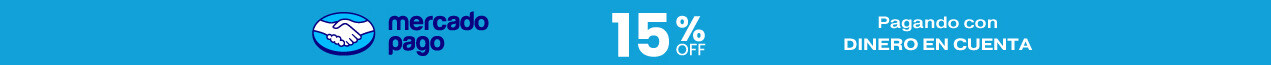
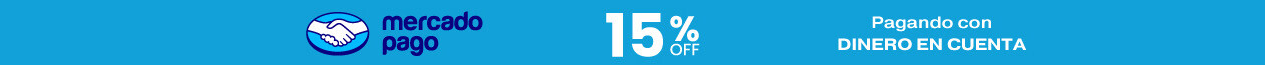
responsive a mp, agrege construccion.

diff --git a/paginas/construccion.html b/paginas/construccion.html
@@ -1,0 +1,74 @@
+<!doctype html>
+<html lang="es">
+  <head>
+    <meta charset="utf-8">
+    <meta name="viewport" content="width=device-width, initial-scale=1">
+    <title>Altimax</title>
+    <link rel="preconnect" href="https://fonts.googleapis.com">
+    <link rel="stylesheet" href="/style.css">
+    <link rel="preconnect" href="https://fonts.gstatic.com" crossorigin>
+    <script src="https://cdn.jsdelivr.net/npm/bootstrap@5.3.5/dist/js/bootstrap.bundle.min.js" integrity="sha384-k6d4wzSIapyDyv1kpU366/PK5hCdSbCRGRCMv+eplOQJWyd1fbcAu9OCUj5zNLiq" crossorigin="anonymous"></script>
+    <script src="https://cdn.jsdelivr.net/npm/bootstrap@5.3.5/dist/js/bootstrap.bundle.min.js" integrity="sha384-k6d4wzSIapyDyv1kpU366/PK5hCdSbCRGRCMv+eplOQJWyd1fbcAu9OCUj5zNLiq" crossorigin="anonymous"></script>
+    <link href="https://fonts.googleapis.com/css2?family=Josefin+Sans:ital,wght@0,100..700;1,100..700&family=Quicksand:wght@300..700&family=Yrsa:ital,wght@0,300..700;1,300..700&display=swap" rel="stylesheet">
+    <link href="https://cdn.jsdelivr.net/npm/bootstrap@5.3.5/dist/css/bootstrap.min.css" rel="stylesheet" integrity="sha384-SgOJa3DmI69IUzQ2PVdRZhwQ+dy64/BUtbMJw1MZ8t5HZApcHrRKUc4W0kG879m7" crossorigin="anonymous">
+  </head>
+  <body>
+<header>
+    <h6 class="cabeza">📨Hasta 6 cuotas sin interes y envios a todo el pais!!!📨</h6>
+</header>
+
+
+<nav class="navbar navbar-expand-lg navbar-light bg-light">
+    <a class="navbar-brand" href="/index.html"><h1 class="tittle">─────Altimax───── </h1></a>
+    <button class="navbar-toggler" type="button" data-toggle="collapse" data-target="#navbarNav" aria-controls="navbarNav" aria-expanded="false" aria-label="Toggle navigation">
+      <span class="navbar-toggler-icon"></span>
+    </button>
+    <div class="collapse navbar-collapse" id="navbarNav">
+      <ul class="navbar-nav">
+        <li class="nav-item active">
+          <a class="nav-link" href="/paginas/mujeres.html">Mujeres</span></a>
+        </li>
+        <li class="nav-item">
+          <a class="nav-link" href="/paginas/hombres.html">Hombres</a>
+        </li>
+        <li class="nav-item">
+          <a class="nav-link" href="/paginas/niños.html">Niños</a>
+        </li>
+        <li class="nav-item">
+            <a class="nav-link" href="/paginas/destacados.html">Destacados</a>
+          </li>
+      </ul>
+    </div>
+  </nav>
+<nav>
+
+<h1 class="construccion">🚧esta pagina se encuentra en constrccuion🚧</h1>
+
+  <footer>
+    <div class="footer-contenido">
+        <div class="footer-col">
+          <h3>Contacto</h3>
+          <p>Email: ejemplo@gmail.com</p>
+          <p>Tel: +123 456 789</p>
+        </div>
+        <div class="footer-col">
+          <h3>Enlaces</h3>
+          <ul>
+            <li><a href="/index.html">Inicio</a></li>
+            <li><a href="">Servicios</a></li>
+            <li><a href="">Sobre Nosotros</a></li>
+          </ul>
+        </div>
+        <div class="footer-col">
+          <h3>Síguenos</h3>
+          <div class="redes-sociales">
+            <a href="">🌐 Facebook</a><br>
+            <a href="">📸 Instagram</a><br>
+            <a href="">🐦 Twitter</a>
+          </div>
+        </div>
+      </div>
+  </footer>
+
+  </body>
+</html>

diff --git a/index.html b/index.html
@@ -19,7 +19,7 @@
 
 
 <nav class="navbar navbar-expand-lg navbar-light bg-light">
-    <a class="navbar-brand" href="#"><h1 class="tittle">─────Altimax───── </h1></a>
+    <a class="navbar-brand" href="/index.html"><h1 class="tittle">─────Altimax───── </h1></a>
     <button class="navbar-toggler" type="button" data-toggle="collapse" data-target="#navbarNav" aria-controls="navbarNav" aria-expanded="false" aria-label="Toggle navigation">
       <span class="navbar-toggler-icon"></span>
     </button>
@@ -32,16 +32,16 @@
           <a class="nav-link" href="/paginas/hombres.html">Hombres</a>
         </li>
         <li class="nav-item">
-          <a class="nav-link" href="/paginas/niños.html">Niños</a>
+          <a class="nav-link" href="/paginas/construccion.html">Niños</a>
         </li>
         <li class="nav-item">
-            <a class="nav-link" href="/paginas/destacados.html">Destacados</a>
+            <a class="nav-link" href="/paginas/construccion.html">Destacados</a>
           </li>
       </ul>
     </div>
   </nav>
 <nav>
-    <h3><img src="/paginas/asses/mp.png" alt=""></h3>
+    <h3 ><img src="/paginas/asses/mp.png" alt="" class="mp"></h3>
 </nav>
 <nav>
     <div id="carouselExample" class="carousel slide">
@@ -76,7 +76,7 @@
       <div class="card-body">
         <h5 class="card-title">Camiseta de Boca JRS</h5>
         <p class="card-text"></p>
-        <a href="/paginas/camiseta-boca.html" class="btn btn-primary">Ver mas </a>
+        <a href="/paginas/construccion.html" class="btn btn-primary">Ver mas </a>
       </div>
     </div>
   
@@ -85,7 +85,7 @@
       <div class="card-body">
         <h5 class="card-title">Camiseta de River Plte</h5>
         <p class="card-text"></p>
-        <a href="/paginas/river.html" class="btn btn-primary">Ver mas </a>
+        <a href="/paginas/construccion.html" class="btn btn-primary">Ver mas </a>
       </div>
     </div>
   
@@ -94,7 +94,7 @@
       <div class="card-body">
         <h5 class="card-title">Camiseta de Independiente</h5>
         <p class="card-text"></p>
-        <a href="/paginas/independiente.html" class="btn btn-primary">Ver mas </a>
+        <a href="/paginas/construccion.html" class="btn btn-primary">Ver mas </a>
       </div>
     </div>
   
@@ -103,7 +103,7 @@
       <div class="card-body">
         <h5 class="card-title">Camiseta de Racing</h5>
         <p class="card-text"></p>
-        <a href="/paginas/racing.html" class="btn btn-primary">Ver mas </a>
+        <a href="/paginas/construccion.html" class="btn btn-primary">Ver mas </a>
       </div>
     </div>
   </div>

diff --git a/style.css b/style.css
@@ -10,7 +10,9 @@
     background-color: #000000;
     padding: 10px;
 }
-
+.construccion{
+  text-align: center;
+}
 .navbar{
     text-align: center;
 }
@@ -35,12 +37,17 @@
     padding: 200px;
 }
 
+.mp{
+  width: 100%;
+}
+
 .camisetas {
     display: grid;
     grid-template-columns: repeat(4, 1fr);
     grid-template-areas: "boca river cai racing";
     padding: 20px;
     margin: 20px;
+    width: 100%;
 }
 
 .card {
@@ -51,6 +58,10 @@
     min-width: 0;
 
 }
+.card-body{
+  width: 100%;
+}
+
 
 
 .btn-primary {
